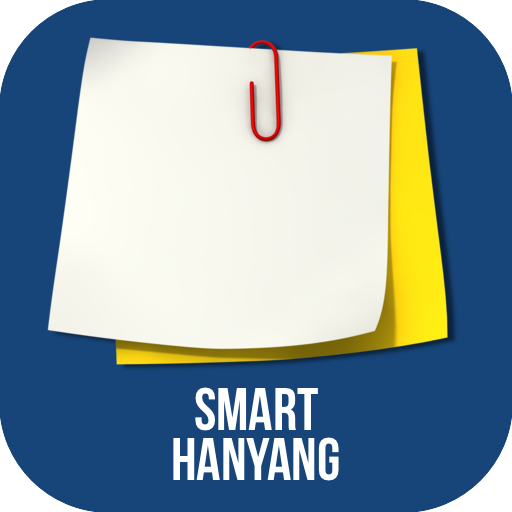
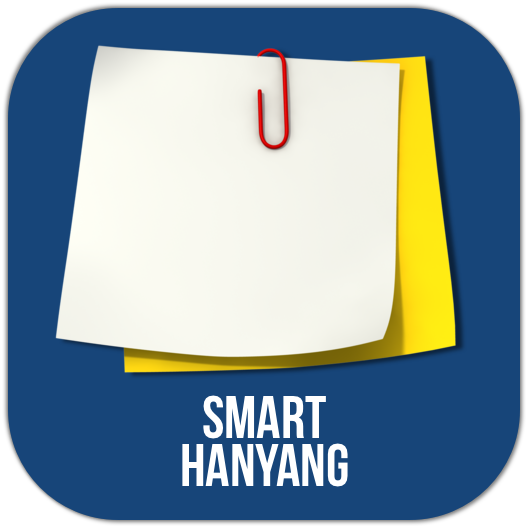
icon변경

diff --git a/index.html b/index.html
@@ -98,7 +98,7 @@
                                         </ul>
                                     </li>
                                     <li>
-                                        	<a href="#" class="image featured"><img src="3.jpg" width="315" height="315" alt="" /></a>
+                                        	<a href="#" class="image featured"><img src="3.png" width="315" height="315" alt="" /></a>
                                         <h3>현경우</h3>
                                         <p>Software Engineering at Hanyang Univ.
                                         <br>안되면 되게하라.
